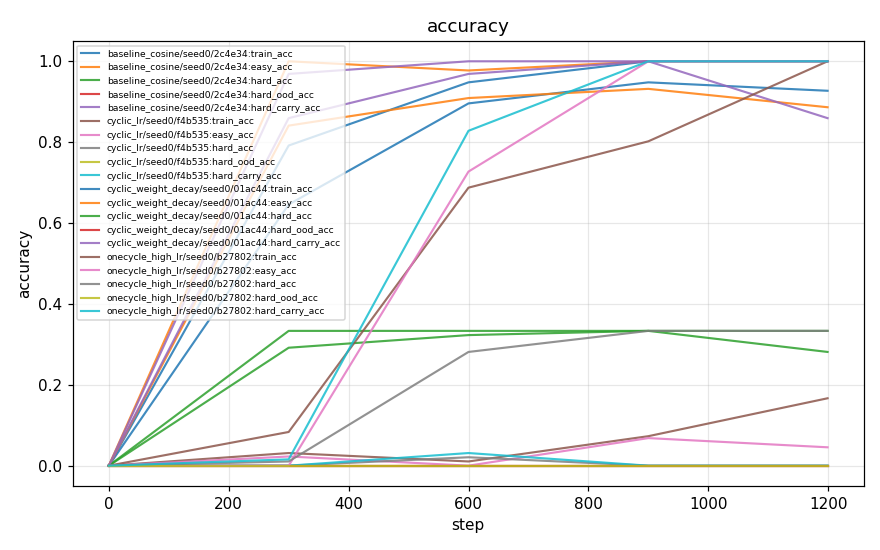
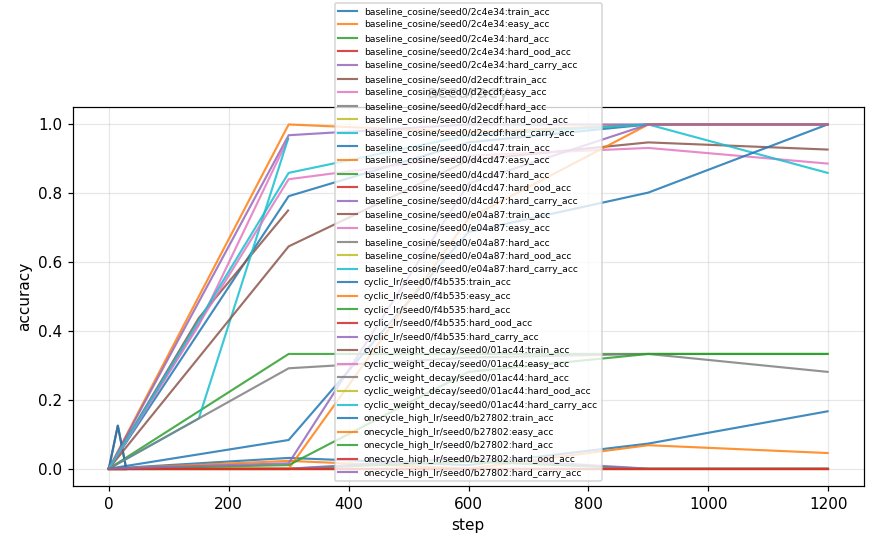
Arithmetic smoke
Add smoke test artifacts

diff --git a/reports/runs/smoke_arithmetic.md b/reports/runs/smoke_arithmetic.md
@@ -1,0 +1,49 @@
+# Experiment report: arithmetic_catapult
+
+- runs ingested: **7**
+- git SHAs present: d4a919a457, f3abd5bc40
+- ⚠ some runs were produced from a **dirty** git tree (not reproducible)
+
+> This report summarizes *measured tooling output*. It makes no claim about whether any hypothesis was confirmed — see `planning/hypotheses/` for the claims and their pre-registered stop conditions.
+
+## Run summary
+
+| run_id                                     | schedule            |   seed | git_sha    | status    |   final_train_loss |   final_easy_acc |   final_hard_acc |   final_train_acc |   final_memorization_gap |   num_params |   final_hard_ood_acc |   final_hard_carry_acc |
+|:-------------------------------------------|:--------------------|-------:|:-----------|:----------|-------------------:|-----------------:|-----------------:|------------------:|-------------------------:|-------------:|---------------------:|-----------------------:|
+| baseline_cosine-20260608T234000-2c4e34     | baseline_cosine     |      0 | d4a919a457 | completed |          0.0001124 |          1       |           0.3333 |            1      |                  0       |       152300 |                    0 |                 1      |
+| baseline_cosine-20260608T234709-d2ecdf     | baseline_cosine     |      0 | f3abd5bc40 | completed |          1.603     |          0       |           0      |            0      |                  0       |       152300 |                    0 |                 0      |
+| baseline_cosine-20260608T235603-d4cd47     | baseline_cosine     |      0 | f3abd5bc40 | completed |          1.603     |          0       |           0      |            0      |                  0       |       152300 |                    0 |                 0      |
+| baseline_cosine-20260608T235615-e04a87     | baseline_cosine     |      0 | f3abd5bc40 | completed |          0.1061    |          0.9583  |           0      |            0.75   |                 -0.2083  |       152300 |                    0 |                 0.9583 |
+| cyclic_lr-20260608T234104-f4b535           | cyclic_lr           |      0 | d4a919a457 | completed |          1.016     |          0.04545 |           0      |            0.1667 |                  0.1212  |       152300 |                    0 |                 0      |
+| cyclic_weight_decay-20260608T234133-01ac44 | cyclic_weight_decay |      0 | d4a919a457 | completed |          0.0736    |          0.8864  |           0.2812 |            0.9271 |                  0.04072 |       152300 |                    0 |                 0.8594 |
+| onecycle_high_lr-20260608T234032-b27802    | onecycle_high_lr    |      0 | d4a919a457 | completed |          0.0003328 |          1       |           0.3333 |            1      |                  0       |       152300 |                    0 |                 1      |
+
+## Plots
+
+### loss
+
+![loss](../figures/arithmetic_catapult/loss.png)
+
+### accuracy
+
+![accuracy](../figures/arithmetic_catapult/accuracy.png)
+
+### memorization_gap
+
+![memorization_gap](../figures/arithmetic_catapult/memorization_gap.png)
+
+### optim
+
+![optim](../figures/arithmetic_catapult/optim.png)
+
+### grad_norm
+
+![grad_norm](../figures/arithmetic_catapult/grad_norm.png)
+
+## Catapult crossover check (hard split)
+
+- best baseline hard-accuracy: **0.333** (baseline_cosine/seed0)
+- best non-baseline hard-accuracy: **0.333** (onecycle_high_lr/seed0)
+- Δ(best non-baseline − best baseline) = **+0.000** → the baseline is **not yet** beaten on the hard split.
+
+> Interpretation guard: this is a small-scale, single-report snapshot. A real crossover claim (per H001) requires matched compute, multiple seeds, and the pre-registered stop conditions in `planning/hypotheses/H001-catapult-arithmetic.md`.
